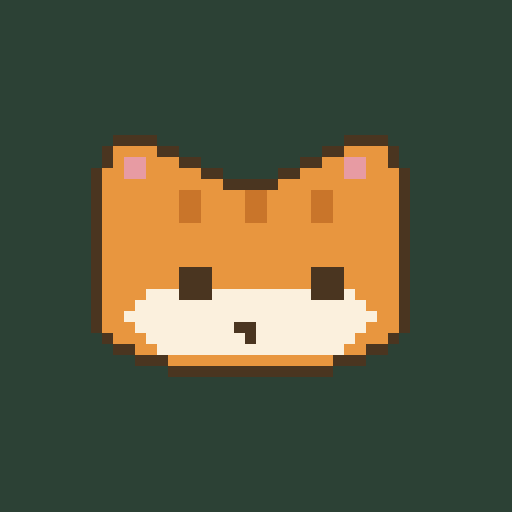
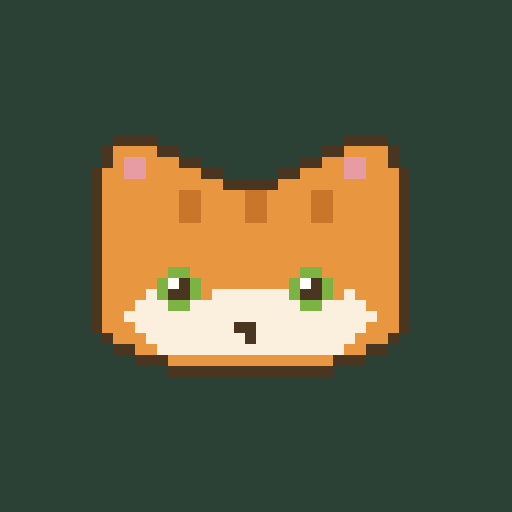
feat: give the cat round eyes and softer expressions

Changed region(s): [[0.2812, 0.5, 0.4375, 0.625], [0.5625, 0.5, 0.6875, 0.625]]

diff --git a/packages/web/src/catEyes.test.ts b/packages/web/src/catEyes.test.ts
@@ -1,0 +1,95 @@
+import { describe, expect, it } from "vitest";
+import { catPalette, paintCatEyes } from "./catArt.js";
+import { iconMark } from "./iconMark.js";
+import { LOOKS, EYES } from "./looks.js";
+import { eyeHighlights } from "./overlays.js";
+import { roomArt } from "./roomArt.js";
+import { roomPainter } from "./roomPainter.js";
+import { POSES, type Pose } from "./sprites.js";
+
+const names = Object.keys(POSES) as Pose[];
+const look = { name: "Bean", ...LOOKS[0]!.cat, eyes: EYES[0]!.hex };
+const open = [".ee.", "ehwe", "ewwe", ".ee."];
+const closed = ["....", "....", ".ww.", "w..w"];
+
+function portrait(pose: Pose, expression = { awake: true, wink: false, gaze: 0 }, colors = look, scale = 2) {
+  const pixels = new Map<string, string>();
+  const context = {
+    fillStyle: "",
+    fillRect(x: number, y: number, width: number, height: number) {
+      expect([x, y, width, height].every(Number.isInteger)).toBe(true);
+      for (let row = y; row < y + height; row++)
+        for (let col = x; col < x + width; col++) pixels.set(`${col},${row}`, this.fillStyle);
+    },
+  };
+  const palette = catPalette(colors, expression.awake, (color) => color);
+  const painter = roomPainter(
+    context as unknown as CanvasRenderingContext2D,
+    { scale, camera: 0, width: 80, layer: null },
+    roomArt,
+  );
+  painter.blit(POSES[pose], 40, 50, palette);
+  paintCatEyes(painter.rect, pose, 40, 50, palette, expression);
+  const eye = eyeHighlights(pose);
+  const crop = (col: number) =>
+    Array.from({ length: 4 }, (_, row) =>
+      Array.from({ length: 4 }, (_, cell) => {
+        const x = Math.round((40 + col - 1 + cell / 2) * scale);
+        const y = Math.round((50 + POSES[pose].oy + eye.row + row / 2) * scale);
+        const color = pixels.get(`${x},${y}`);
+        return color === colors.eyes ? "e" : color === palette.w ? "w" : color === "#fffdf6" ? "h" : ".";
+      }).join(""),
+    );
+  return { left: crop(eye.l), right: crop(eye.r), pixels };
+}
+
+describe("the round-eye design", () => {
+  it.each(names)("keeps the selected shape and small highlights on her %s face", (pose) => {
+    const face = portrait(pose);
+    expect(face.left).toEqual(open);
+    expect(face.right).toEqual(open);
+  });
+
+  it.each(names)("leaves curved lids without iris or highlights when %s closes her eyes", (pose) => {
+    const face = portrait(pose, { awake: false, wink: false, gaze: 0 });
+    expect(face.left).toEqual(closed);
+    expect(face.right).toEqual(closed);
+    expect([...face.pixels.values()]).not.toContain(look.eyes);
+  });
+
+  it.each(names)("closes only the right eye for a %s wink", (pose) => {
+    const face = portrait(pose, { awake: true, wink: true, gaze: 0 });
+    expect(face.left).toEqual(open);
+    expect(face.right).toEqual(closed);
+  });
+
+  it.each(names)("tracks either way in %s without moving the iris or losing a highlight", (pose) => {
+    for (const gaze of [-1, 1]) {
+      const face = portrait(pose, { awake: true, wink: false, gaze });
+      const expected = gaze < 0 ? [".ee.", "whee", "wwee", ".ee."] : [".ee.", "ehww", "eeww", ".ee."];
+      expect(face.left).toEqual(expected);
+      expect(face.right).toEqual(expected);
+    }
+  });
+
+  it.each(LOOKS)("keeps custom eye colors on the $label coat in every pose", ({ cat }) => {
+    for (const eyes of [...EYES.map((eye) => eye.hex), "#b72f8a"]) {
+      for (const pose of names) {
+        const face = portrait(pose, undefined, { name: "Bean", ...cat, eyes });
+        expect(face.left).toEqual(open);
+        expect(face.right).toEqual(open);
+      }
+    }
+  });
+
+  it.each([1, 2, 3, 6])("keeps visible iris and whole device pixels at scale %s", (scale) => {
+    const face = portrait("sit", undefined, undefined, scale);
+    expect([...face.pixels.values()].filter((color) => color === look.eyes).length).toBeGreaterThan(0);
+  });
+
+  it("keeps eyes and highlights in the matching cat icon", () => {
+    const icon = iconMark(look.fur, false, { ...look, eyes: "#b72f8a" });
+    expect(icon.match(/fill="#b72f8a"/g)).toHaveLength(16);
+    expect(icon.match(/fill="#fffdf6"/g)).toHaveLength(2);
+  });
+});

diff --git a/packages/web/src/Cat.tsx b/packages/web/src/Cat.tsx
@@ -5,7 +5,7 @@ import * as polish from "./roomPolish.js";
 import * as sceneArt from "./roomShell.js";
 import { roomPainter, type RasterView } from "./roomPainter.js";
 import { roomArt } from "./roomArt.js";
-import { catPalette } from "./catArt.js";
+import { catPalette, paintCatEyes } from "./catArt.js";
 import { fitRoom, project, propBounds } from "./roomGeometry.js";
 import type { Cat as CatLook, Clock, Gift, Mood, RoomDecor } from "./types.js";
 import { DOOR_X, mixHex, sceneFor } from "./hours.js";
@@ -29,7 +29,6 @@ import {
   RAIN_STREAKS,
   SNOW_FLAKES,
   YAWN,
-  eyeHighlights,
   COLLAR,
 } from "./overlays.js";
 import type { RoomView } from "./types.js";
@@ -198,19 +197,6 @@ const PROPS = [
 const INK = "#4a3520";
 const PINK = "#e79ba3";
 const WHITE = "#fffdf6";
-
-const CLOSED_EYES: Record<Pose, { y: number; left: number; right: number; width: number }> = {
-  flop: { y: 7, left: 5, right: 11, width: 2 },
-  loaf: { y: 7, left: 5, right: 11, width: 2 },
-  sit: { y: 7, left: 5, right: 11, width: 2 },
-  stand: { y: 7, left: 5, right: 11, width: 2 },
-  play: { y: 7, left: 5, right: 11, width: 2 },
-  perk: { y: 8, left: 5, right: 11, width: 2 },
-  walk: { y: 7, left: 5, right: 11, width: 2 },
-  stretch: { y: 7, left: 5, right: 11, width: 2 },
-  pounce: { y: 7, left: 5, right: 11, width: 2 },
-  peek: { y: 7, left: 5, right: 11, width: 2 },
-};
 
 const YAWN_MS = 900;
 
@@ -2415,6 +2401,21 @@ export function Cat({
       }
 
       const grooming = t - groom.current.at < GROOM_MS;
+      const at = mouseVisiting
+        ? mouseMoment!.x
+        : looking
+          ? la!.x
+          : m && sc.sun > 0.15
+            ? m.x
+            : ptr.in
+              ? ptr.x
+              : null;
+      const gaze = pose === "stand" || at === null ? 0 : Math.sign(at - kx) * (Math.abs(at - kx) > 4 ? 1 : 0);
+      paintCatEyes(rect, pose, kx, y, pal, {
+        awake,
+        wink: !reduce && awake && expression.wink && !forced && !walking && !grooming,
+        gaze,
+      });
       if (grooming && awake) {
         const faceX = kx + sp.ox;
         // `perk` has its face a row lower than every other pose. Assuming otherwise puts the yawn on her nose.
@@ -2437,22 +2438,6 @@ export function Cat({
         rect(faceX + YAWN.x, jawY, YAWN.w, 1, INK);
         rect(faceX + YAWN.x + 1, jawY + 1, YAWN.w - 2, 1, INK);
         px(faceX + YAWN.x + 2, jawY + 1, PINK);
-      }
-
-      if (!reduce && awake && expression.wink && !forced && !walking && !grooming) {
-        const eye = CLOSED_EYES[pose];
-        const ex = kx + sp.ox + eye.right;
-        const ey = y + sp.oy + eye.y;
-        rect(ex, ey - 1, eye.width, 2, pal.f);
-        rect(ex, ey, eye.width, 1, INK);
-      }
-
-      if (!awake) {
-        const eye = CLOSED_EYES[pose];
-        const faceX = kx + sp.ox;
-        const eyeY = y + sp.oy + eye.y;
-        rect(faceX + eye.left, eyeY, eye.width, 1, INK);
-        rect(faceX + eye.right, eyeY, eye.width, 1, INK);
       }
 
       if (sc.moodVisual === "blanket") {
@@ -2737,25 +2722,6 @@ export function Cat({
         px(mx, my, `rgba(246,234,208,${a2})`);
         px(mx - 1, my - flap, `rgba(232,214,180,${a2})`);
         px(mx + 1, my - flap, `rgba(232,214,180,${a2})`);
-      }
-
-      if (awake) {
-        const spot = eyeHighlights(pose);
-        const ey = y + sp.oy + spot.row;
-        const at = mouseVisiting
-          ? mouseMoment!.x
-          : looking
-            ? la!.x
-            : m && sc.sun > 0.15
-              ? m.x
-              : ptr.in
-                ? ptr.x
-                : null;
-        const look =
-          pose === "stand" || at === null ? 0 : Math.sign(at - kx) * (Math.abs(at - kx) > 4 ? 1 : 0);
-        rect(kx + spot.l + (look + 1) * 0.25, ey, 1, 1.5, pal.w);
-        if (!expression.wink || forced || walking || grooming)
-          rect(kx + spot.r + (look + 1) * 0.25, ey, 1, 1.5, pal.w);
       }
 
       if (sc.play > 0.5) {

diff --git a/packages/web/src/catArt.ts b/packages/web/src/catArt.ts
@@ -1,6 +1,7 @@
 import type { Cat as CatLook } from "./types.js";
 import { enlarge, fill, pixels, type PixelArt } from "./pixelArt.js";
-import { POSES, TAIL, type Sprite } from "./sprites.js";
+import { POSES, TAIL, type Pose, type Sprite } from "./sprites.js";
+import { eyeHighlights } from "./overlays.js";
 
 const cats = new Set(Object.values(POSES));
 
@@ -76,7 +77,7 @@ export function catArtwork(sprite: Sprite): PixelArt | null {
     fill(cells, left + 5 + Math.abs(2 - row), top + 14 + row, 23 - Math.abs(2 - row) * 2, 1, "b");
   const eyes = sprite.rows.findIndex((row) => row.includes("h"));
   const columns = [...sprite.rows[eyes]!].flatMap((cell, x) => (cell === "h" ? [x] : []));
-  for (const x of columns) fill(cells, x * 2, eyes * 2, 3, 3, "e");
+  for (const x of columns) fill(cells, x * 2, eyes * 2, 3, 3, "f");
   fill(cells, center * 2 - 1, nose * 2 + 1, 2, 1, "w");
   fill(cells, center * 2, nose * 2 + 2, 1, 1, "m");
   if (sprite === POSES.peek) {
@@ -108,4 +109,30 @@ export function catPalette(look: CatLook, awake: boolean, light: (color: string)
     h: awake ? "#fffdf6" : light(look.fur),
     e: awake ? look.eyes : light(look.fur),
   };
+}
+
+export function paintCatEyes(
+  paint: (x: number, y: number, width: number, height: number, color: string) => void,
+  pose: Pose,
+  x: number,
+  y: number,
+  palette: { e: string; w: string; h: string },
+  expression: { awake: boolean; wink: boolean; gaze: number },
+) {
+  const spot = eyeHighlights(pose);
+  const top = y + POSES[pose].oy + spot.row;
+  for (const [side, col] of [spot.l, spot.r].entries()) {
+    const left = x + col - 1;
+    if (!expression.awake || (expression.wink && side === 1)) {
+      paint(left + 0.5, top + 1, 1, 0.5, palette.w);
+      paint(left, top + 1.5, 0.5, 0.5, palette.w);
+      paint(left + 1.5, top + 1.5, 0.5, 0.5, palette.w);
+      continue;
+    }
+    paint(left + 0.5, top, 1, 0.5, palette.e);
+    paint(left, top + 0.5, 2, 1, palette.e);
+    paint(left + 0.5, top + 1.5, 1, 0.5, palette.e);
+    paint(left + 0.5 + expression.gaze * 0.5, top + 0.5, 1, 1, palette.w);
+    paint(left + 0.5, top + 0.5, 0.5, 0.5, palette.h);
+  }
 }

diff --git a/packages/web/src/room.draw.test.tsx b/packages/web/src/room.draw.test.tsx
@@ -176,3 +176,39 @@ describe("noticing their arrival", () => {
     expect(r.count("#7cb342", 44, 67), "back to the room").toBeGreaterThan(0);
   });
 });
+
+describe("her round eyes in the living room", () => {
+  it("winks with one iris, then restores both round eyes", () => {
+    r = room({ mood: "horny" });
+    r.run(0, 2400);
+    expect(r.count("#7cb342", 30, 70)).toBe(4);
+    r.frame(2700);
+    expect(r.count("#7cb342", 30, 70)).toBe(2);
+    r.frame(3100);
+    expect(r.count("#7cb342", 30, 70)).toBe(4);
+  });
+
+  it.each(["good", "tired"] as const)("keeps the %s blink timing and reopens both eyes", (mood) => {
+    r = room({ mood, together: true });
+    r.frame(3450);
+    expect(r.count("#7cb342", 30, 70)).toBe(0);
+    r.frame(3650);
+    expect(r.count("#7cb342", 30, 70)).toBe(mood === "tired" ? 0 : 4);
+    r.frame(3900);
+    expect(r.count("#7cb342", 30, 70)).toBe(4);
+  });
+
+  it("keeps both eyes open when an interaction overrides the flirty wink", () => {
+    r = room({ mood: "horny", eyesOpen: true });
+    r.frame(2700);
+    expect(r.count("#7cb342", 30, 70)).toBe(4);
+  });
+
+  it("skips animated blinks and winks with reduced motion", () => {
+    r = room({ mood: "horny" }, undefined, true);
+    for (const at of [2700, 3450, 4150]) {
+      r.frame(at);
+      expect(r.count("#7cb342", 30, 70)).toBe(4);
+    }
+  });
+});

diff --git a/packages/web/src/iconMark.ts b/packages/web/src/iconMark.ts
@@ -1,9 +1,19 @@
-import { catArtwork } from "./catArt.js";
+import { catArtwork, paintCatEyes } from "./catArt.js";
+import { fill } from "./pixelArt.js";
 import { POSES } from "./sprites.js";
 import type { Cat } from "./types.js";
 
 const INK = "#2c4135";
-const HEAD = catArtwork(POSES.sit)!.rows.slice(0, 22);
+const head = catArtwork(POSES.sit)!.rows.map((row) => [...row]);
+paintCatEyes(
+  (x, y, width, height, color) => fill(head, x * 2, y * 2, width * 2, height * 2, color),
+  "sit",
+  -POSES.sit.ox,
+  -POSES.sit.oy,
+  { e: "e", w: "w", h: "h" },
+  { awake: true, wink: false, gaze: 0 },
+);
+const HEAD = head.slice(0, 22);
 
 export function iconMark(fur = "#e8963f", maskable = false, look?: Omit<Cat, "name">): string {
   const coat = /^#[\da-f]{6}$/i.test(fur) ? fur : "#e8963f";
@@ -16,8 +26,8 @@ export function iconMark(fur = "#e8963f", maskable = false, look?: Omit<Cat, "na
     n: "#e79ba3",
     m: "#4a3520",
     c: coat,
-    h: coat,
-    e: "#4a3520",
+    h: "#fffdf6",
+    e: look && /^#[\da-f]{6}$/i.test(look.eyes) ? look.eyes : "#7cb342",
   };
   const face = HEAD.flatMap((row, y) =>
     [...row].flatMap((pixel, x) =>

diff --git a/packages/web/src/canvasHarness.tsx b/packages/web/src/canvasHarness.tsx
@@ -43,7 +43,11 @@ export interface Room {
 }
 
 /* Read `scale` off the canvas rather than predicting it: the rule it follows is under test. */
-export function room(props: Partial<Parameters<typeof Cat>[0]> = {}, when = "2026-04-02T09:00:00Z"): Room {
+export function room(
+  props: Partial<Parameters<typeof Cat>[0]> = {},
+  when = "2026-04-02T09:00:00Z",
+  reducedMotion = false,
+): Room {
   // Keep the art grid independent of device scale so detail can be checked at any viewport size.
   const grid: (string | null)[] = new Array(160 * 160).fill(null);
   let scale = 1;
@@ -62,7 +66,7 @@ export function room(props: Partial<Parameters<typeof Cat>[0]> = {}, when = "202
 
   // What the room reaches for and jsdom lacks. Reduced motion off, or she skips most of this.
   vi.stubGlobal("matchMedia", (query: string) => ({
-    matches: false,
+    matches: reducedMotion,
     media: query,
     addEventListener: () => {},
     removeEventListener: () => {},

diff --git a/packages/web/src/catArt.test.ts b/packages/web/src/catArt.test.ts
@@ -24,7 +24,8 @@ describe("the pocket room cat", () => {
     expect(art.rows[0]!.length * art.step).toBe(sprite.w);
     expect(art.rows.every((row) => row.length === art.rows[0]!.length)).toBe(true);
     const { l, r, row } = eyeHighlights(pose);
-    for (const x of [l, r]) expect(art.rows[row * 2]![Math.round((x - sprite.ox) * 2)]).toBe("e");
+    for (const x of [l, r]) expect(art.rows[row * 2]![Math.round((x - sprite.ox) * 2)]).toBe("f");
+    expect(art.rows.join("")).not.toMatch(/[eh]/);
     const collar = COLLAR[pose];
     for (let x = collar.dx; x < collar.dx + collar.w; x++) {
       expect(art.rows[(collar.dy - art.oy) * 2]![(x - art.ox) * 2], `${pose} collar`).not.toBe(".");

diff --git a/ART.md b/ART.md
@@ -30,8 +30,9 @@ entrance controls remain visible. Postcards preserve the captured scene's propor
 
 The enlarged window, left-hand cabinet and plant share their placement and activation bounds
 through `roomGeometry.ts`. Window projection, mug positions and the shelf trip must agree
-with the visible furniture. The cat's small tracking pupils, blinks, collar and expressions
-follow her pose. Closed eyes fill with her face color; custom colors survive every pose.
+with the visible furniture. The cat's round eyes have small tracking pupils and cream catchlights.
+Blinks use curved lids; winks close one eye. Eyes, collar and expressions follow her pose.
+Closed eyes keep her face color; custom colors survive every pose.
 
 Landed as authored Canvas work: whole-pixel rendering (one logical pixel is a whole number of device
 pixels, or the floorboards come out at two different widths); the cat lit by the room, with a rim from

diff --git a/ARCHITECTURE.md b/ARCHITECTURE.md
@@ -75,7 +75,8 @@ and composition, not runtime assets. Reduced motion, touch targets and the acces
 controls are part of the renderer's contract.
 
 `sprites.ts` retains logical pose bounds and facial landmarks. `catArt.ts` supplies the finer
-cat artwork and replaceable palette; `roomArt.ts` selects it alongside the prop art.
+cat artwork, round eyes and replaceable palette; `roomArt.ts` selects it alongside the prop art.
+The eye painter shares pose landmarks across open eyes, tracking pupils, curved lids and the icon.
 `roomShell.ts` owns the extended surfaces, curtains and material lighting. `roomGeometry.ts`
 owns projection, prop bounds and viewport fitting. The wider viewport centers the existing
 interaction world; drawing and pointer coordinates use the same camera.
